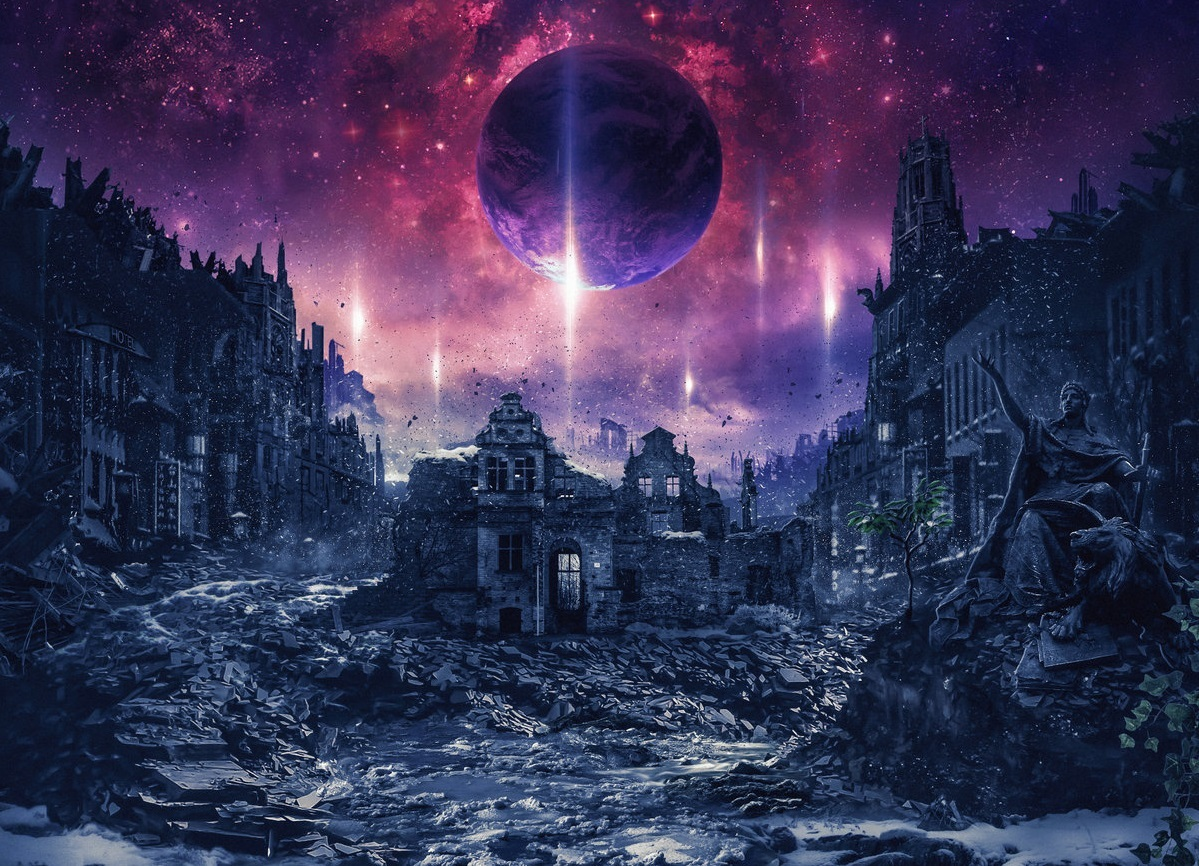
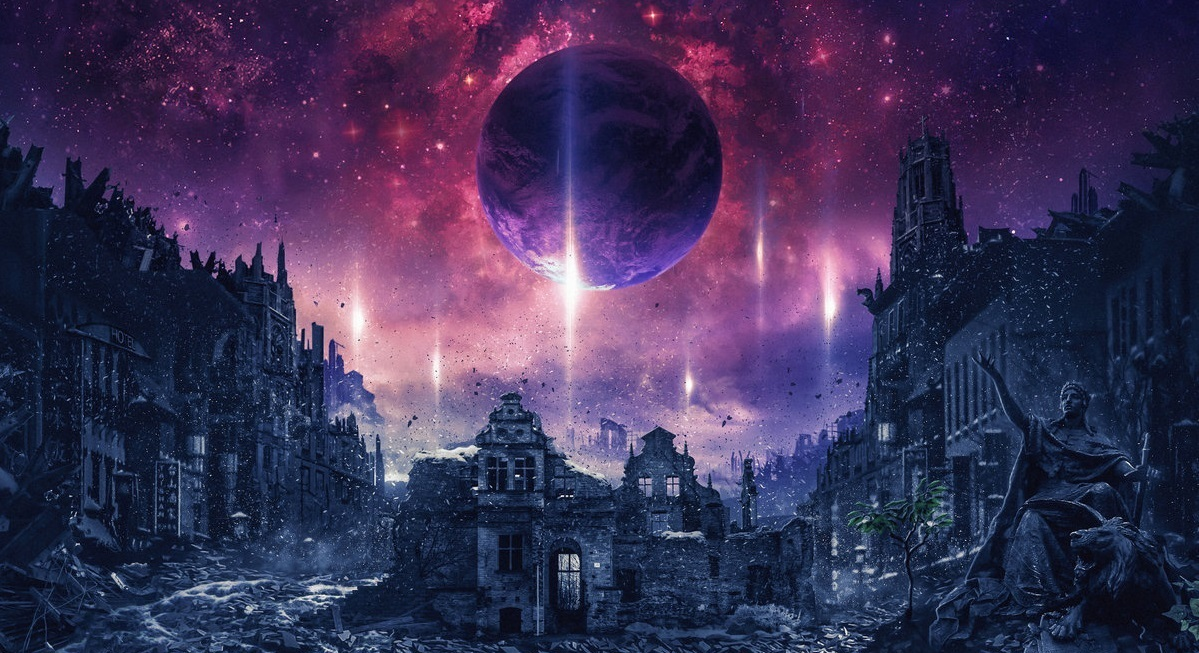
minor fixes

diff --git a/index.html b/index.html
@@ -86,7 +86,7 @@
       <a class="bottom-logo" href="https://www.facebook.com/SylvaticaOfficial"><i class="fab fa-facebook fa-2x"></i></a>
       <a class="bottom-logo" href="https://www.youtube.com/user/SylvaticaOfficial"><i class="fab fa-youtube fa-2x"></i></a>
       <a class="bottom-logo" href="https://open.spotify.com/artist/60WVkobkHwS9Wd2P36lYrO"><i class="fab fa-spotify fa-2x"></i></a>
-      <a class="bottom-logo" href="https://www.instagram.com/sylvatica_official/?hl=da""><i class="fab fa-instagram fa-2x"></i></a>
+      <a class="bottom-logo" href="https://www.instagram.com/sylvatica_official/?hl=da"><i class="fab fa-instagram fa-2x"></i></a>
 
       <p style="text-align: center; font-size: 0.7em; padding-top: 24px;">© Sylvatica Official</p>
     </div>

diff --git a/css/styles.css b/css/styles.css
@@ -65,8 +65,8 @@ hr {
    background-repeat: no-repeat;
    background-size: cover;
 
-  height: 150%;
-  width: 100%;
+  height: 100%;
+  width: auto;
 
   overflow: auto;
 
@@ -103,6 +103,11 @@ hr {
   color: white;
   padding: 8px;
 }
+
+.navbtn {
+  text-shadow: 2px 2px black;
+}
+
 
 
 
@@ -166,5 +171,8 @@ hr {
   .upper-section {
     width: 100%;
     font-weight: bold;
+  }
+
+  .bg-image {
   }
 }
